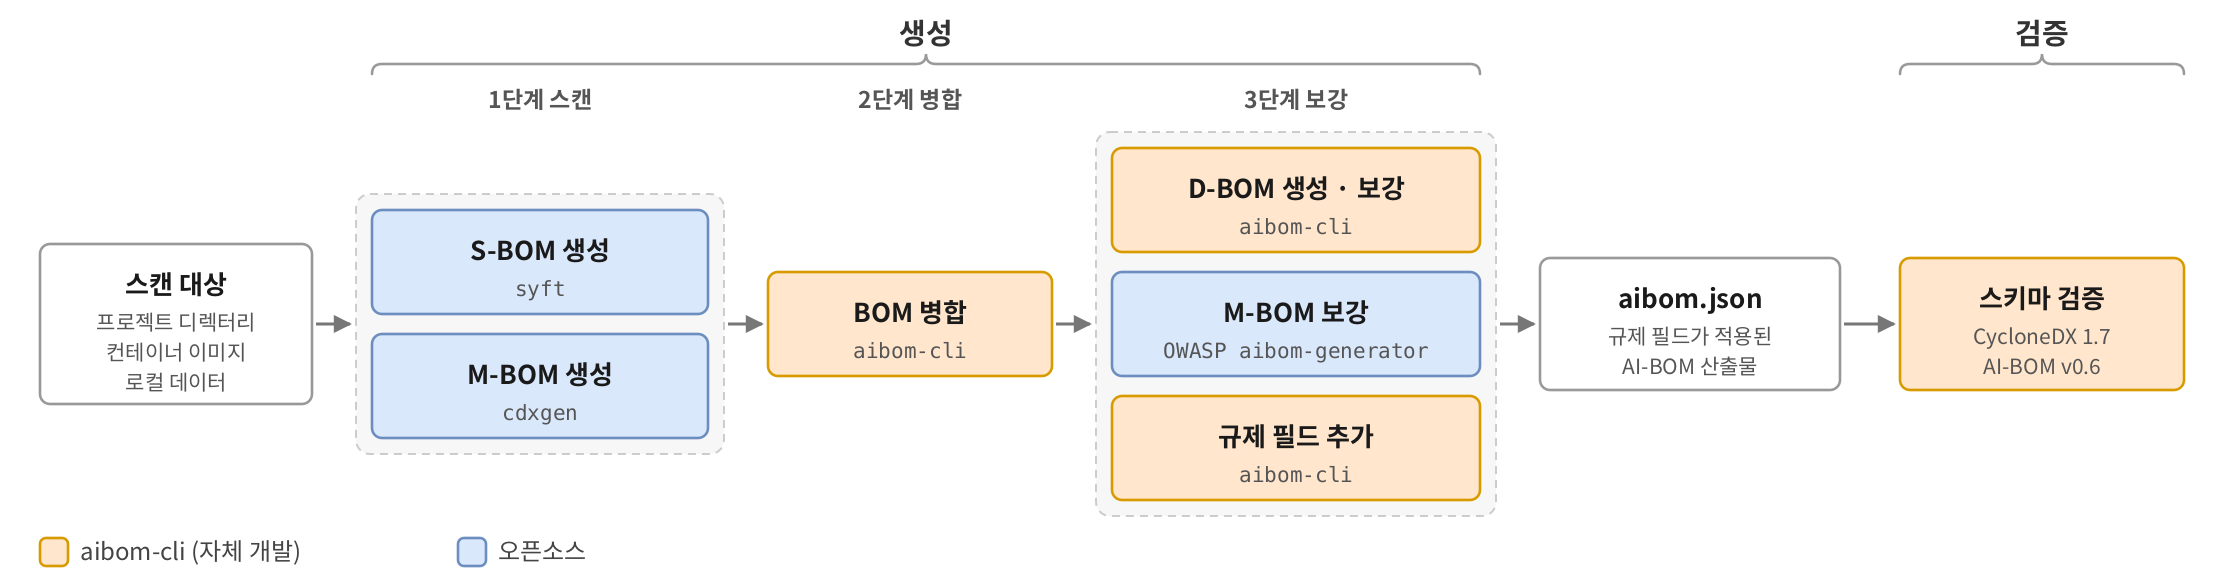
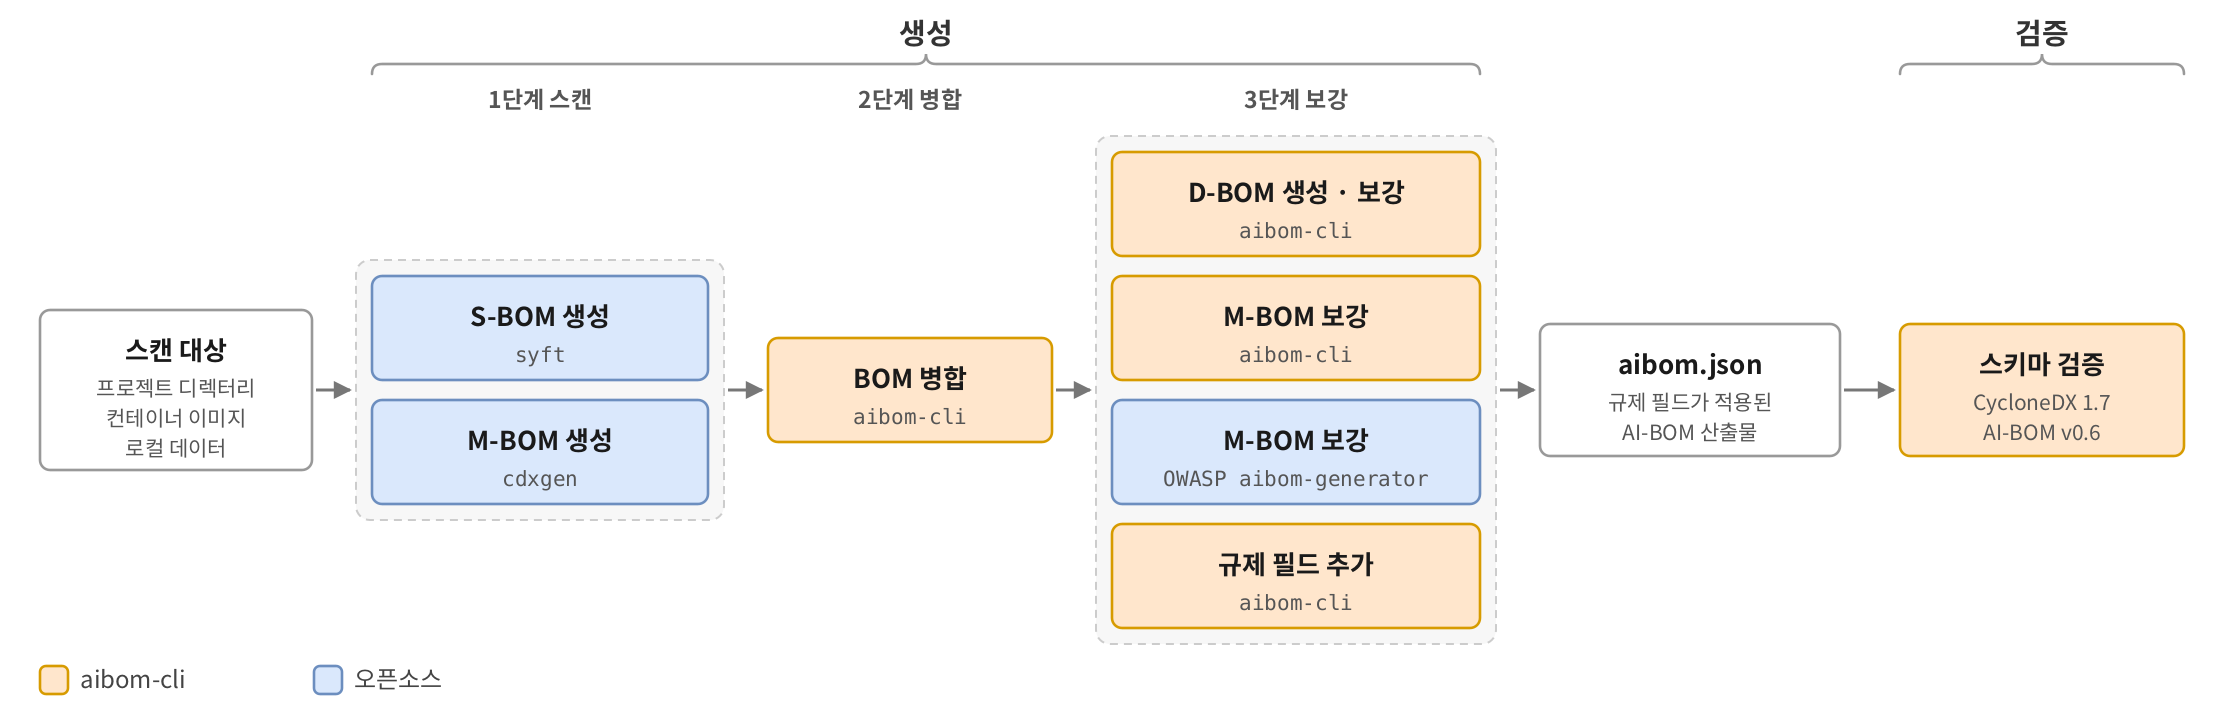
docs: show M-BOM enrichment as separate aibom-cli and OWASP boxes in the pipeline diagram and drop the in-house label and the Hub API note

diff --git a/README.md b/README.md
@@ -10,7 +10,7 @@ aibom-cli 는 디렉터리와 컨테이너 이미지를 스캔해 AI-BOM(D/M/S-B
 |         | M-BOM · D-BOM 생성         | cdxgen                | `cdxgen <target 절대경로> -t ai --spec-version 1.7 --no-install-deps`                 |
 | 2. 병합 | 하나의 json 파일로 병합     | **aibom-cli**   |                                                             |
 | 3. 보강 | D-BOM 보강                  | **aibom-cli**   | `aibom-cli scan --data <path>`                            |
-|         | M-BOM 보강                  | **aibom-cli** (Hub API), OWASP aibom-generator | `python -m src.cli <owner/model>`                         |
+|         | M-BOM 보강                  | **aibom-cli**, OWASP aibom-generator | `python -m src.cli <owner/model>`                         |
 |         | 규제 필드 추가              | **aibom-cli**   | `aibom-cli scan --spec 1.7 \| v0.6`                        |
 | 4. 검증 | CycloneDX 1.7 / AI-BOM v0.6 | **aibom-cli**   | `aibom-cli validate --spec 1.7 \| v0.6`                    |
 
